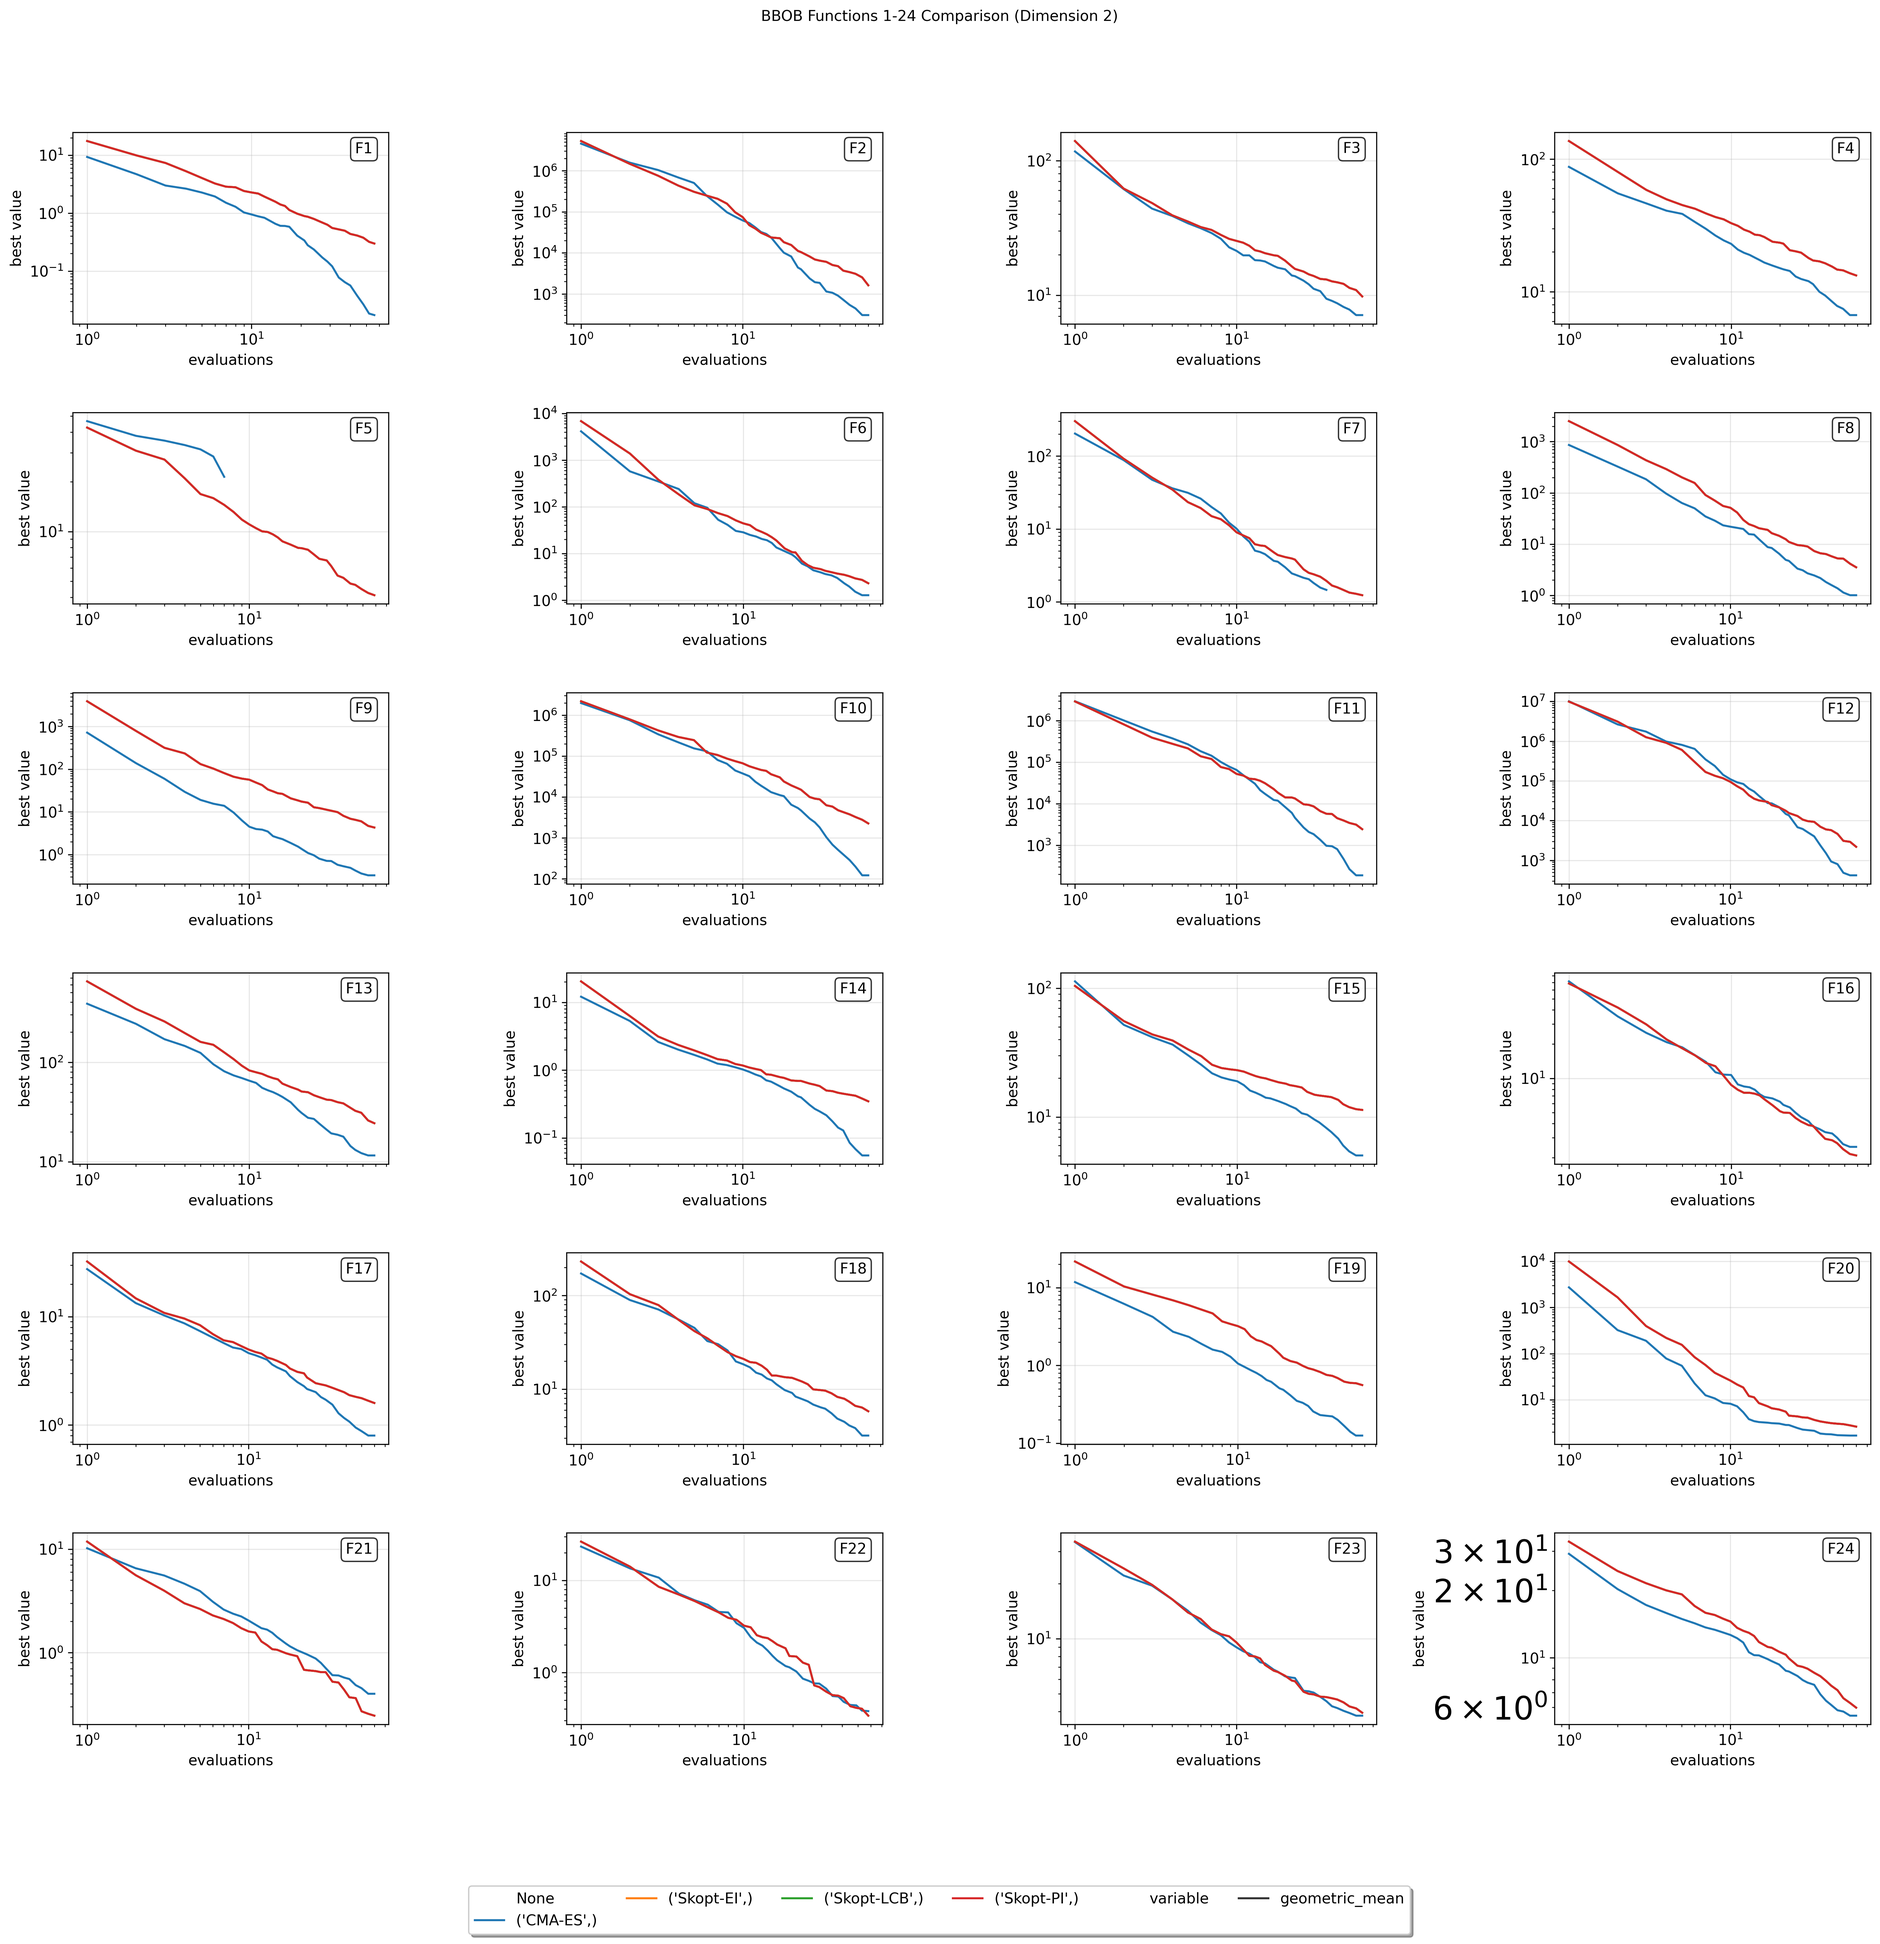
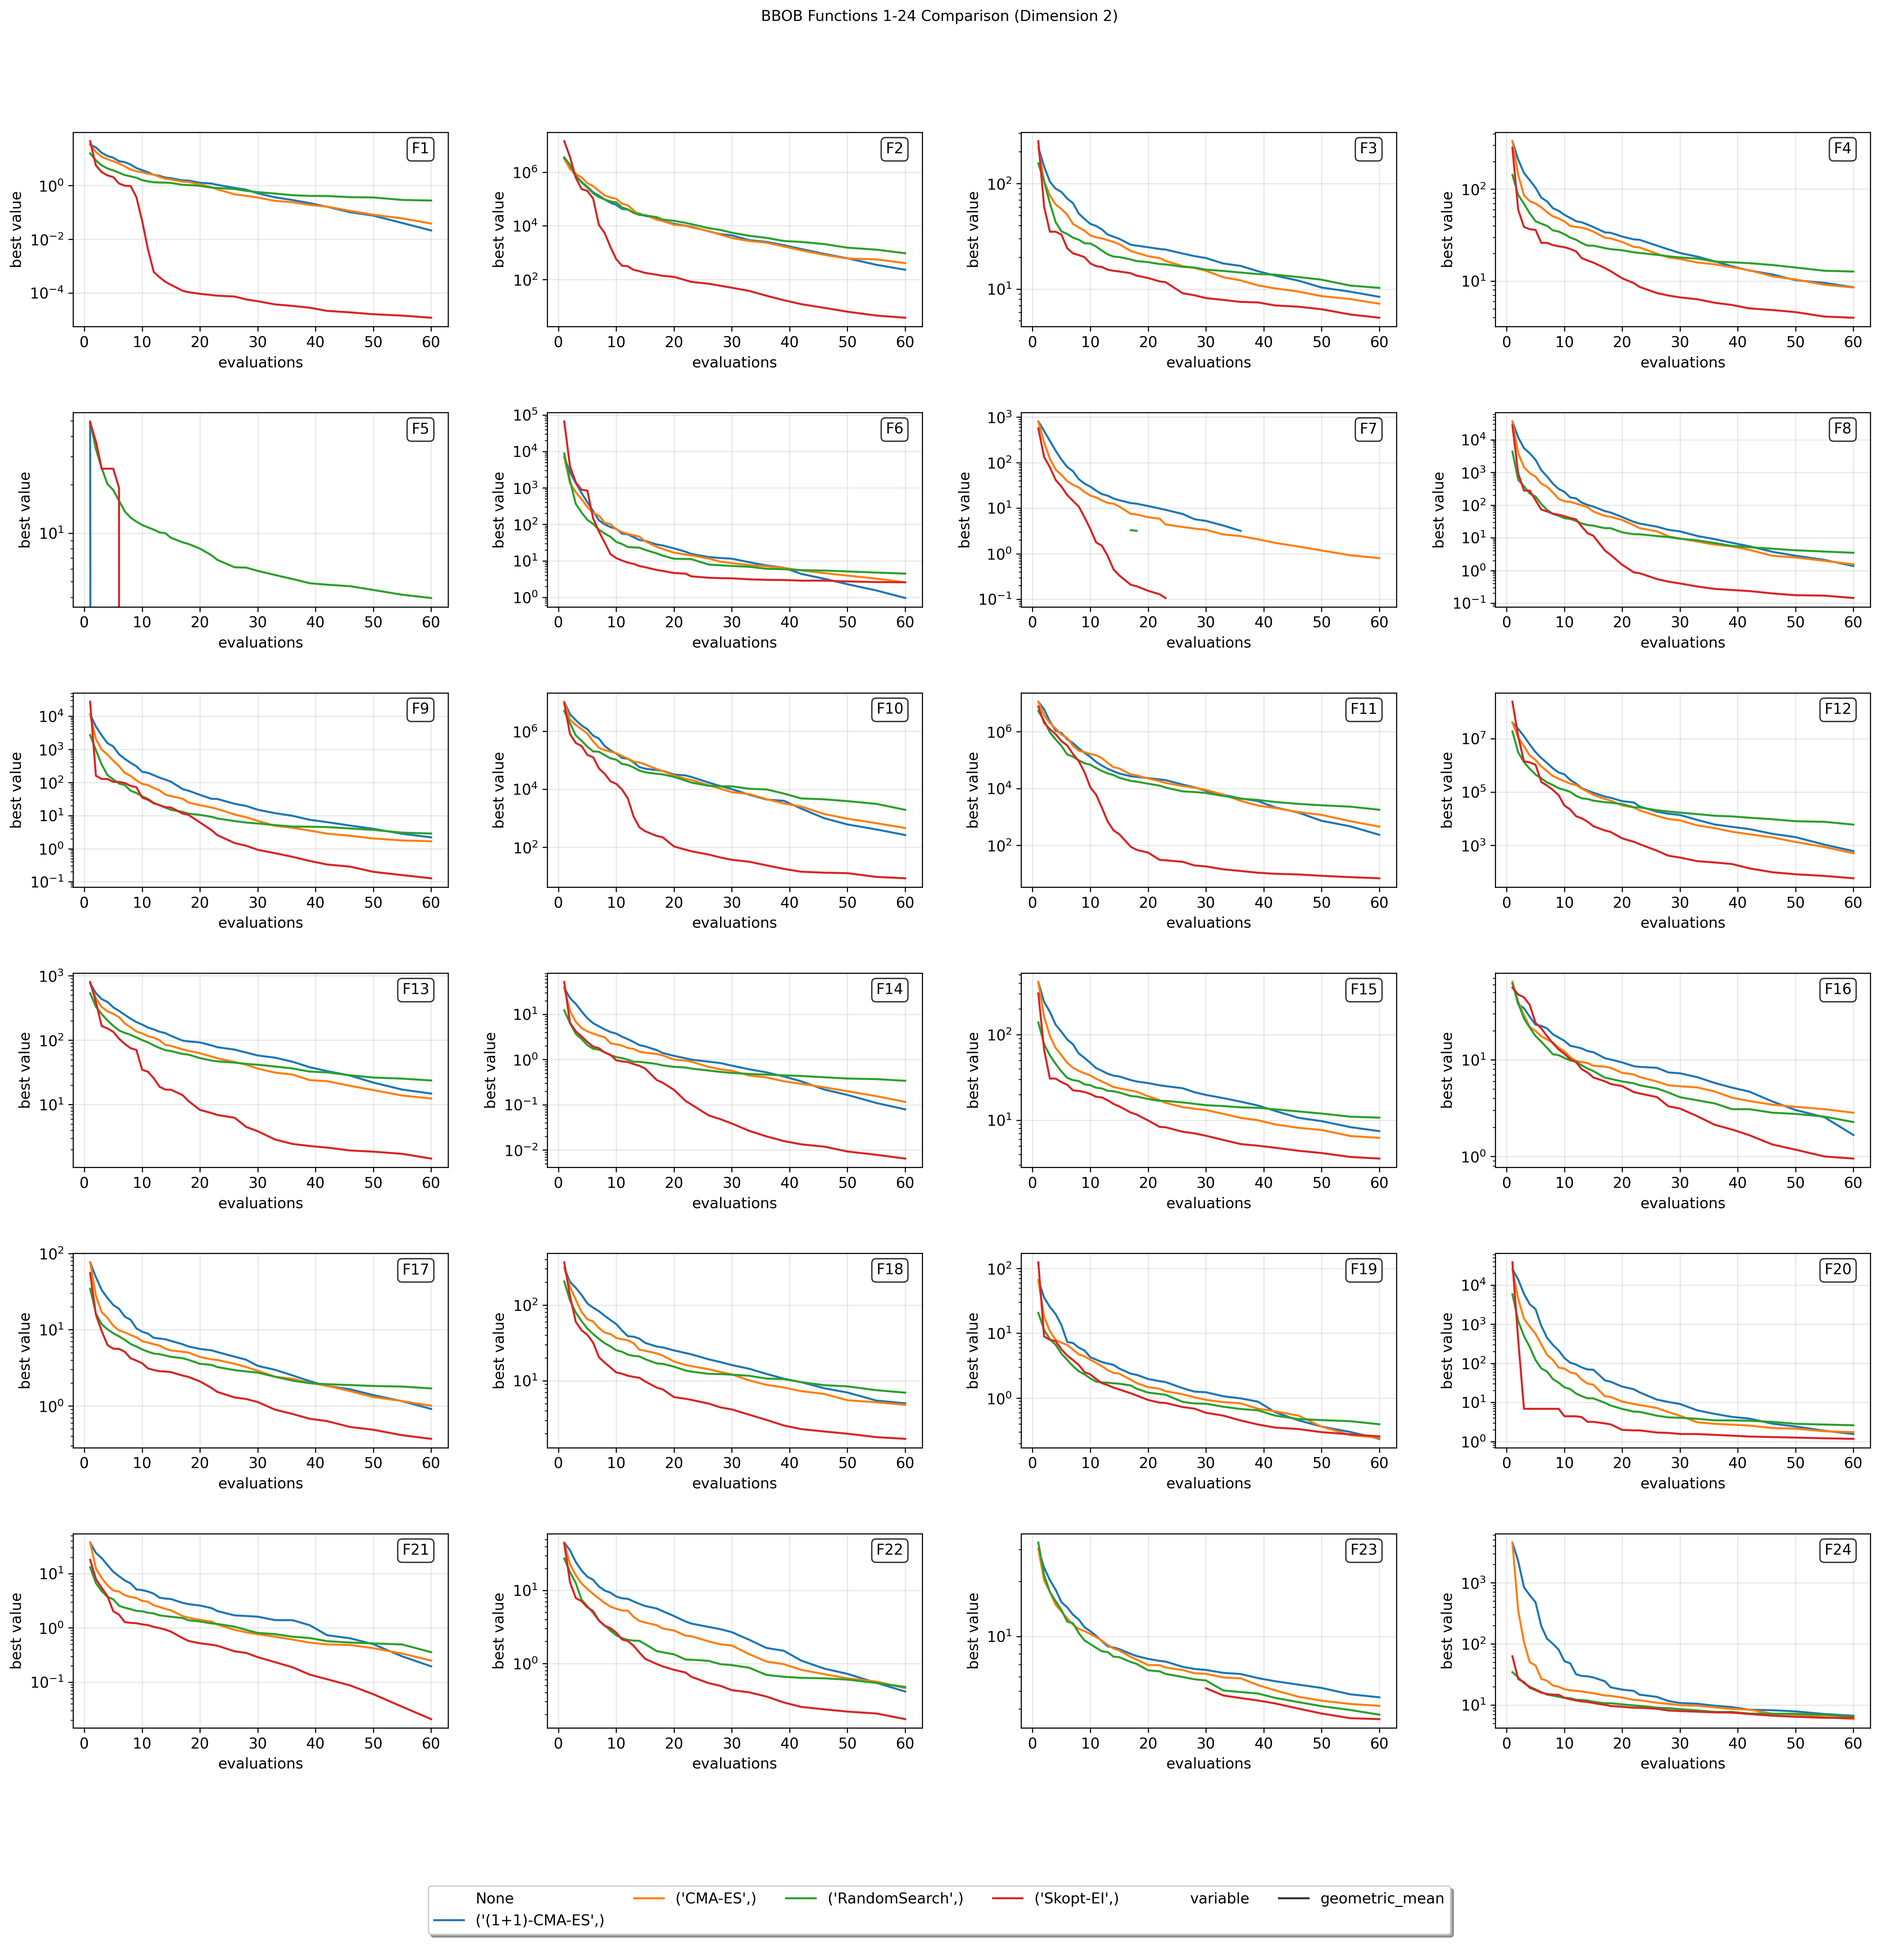
running BO

diff --git a/optimizers/ax_opt.py b/optimizers/ax_opt.py
@@ -1,70 +1,71 @@
-"""
-Meta's Ax optimizer implementation.
-"""
-
 import numpy as np
 import ioh
+from ax.service.ax_client import AxClient, ObjectiveProperties
+from ax.modelbridge.generation_strategy import GenerationStrategy
+from ax.modelbridge.generation_node import GenerationNode
+from ax.modelbridge.registry import Models
+from ax.modelbridge.generation_node import GenerationStep  # older Ax versions use GenerationStep
+
+
 from .base_optimizer import BaseOptimizer
 
 
-from ax.service.ax_client import AxClient, ObjectiveProperties
+class AxBoTorchOptimizer(BaseOptimizer):
+    """Ax optimizer using BoTorch-based Bayesian Optimization."""
 
-
-class AxOptimizer(BaseOptimizer):
-    """Meta's Ax (Adaptive Experimentation) optimizer."""
-
-    def __init__(self, strategy="default"):
+    def __init__(self, strategy="sobol+botorch", n_init=16):
         super().__init__(f"Ax-{strategy}")
         self.strategy = strategy
+        self.n_init = n_init
+
+    def _make_generation_strategy(self, budget: int) -> GenerationStrategy:
+        # NOTE: API differs slightly across Ax versions.
+        # This pattern is the most common: Sobol -> BoTorch.
+        return GenerationStrategy(
+            steps=[
+                GenerationStep(
+                    model=Models.SOBOL,
+                    num_trials=min(self.n_init, budget),
+                    min_trials_observed=min(self.n_init, budget),
+                    max_parallelism=1,  # set >1 if you can evaluate in parallel
+                    model_kwargs={"seed": None},  # AxClient already seeded
+                ),
+                GenerationStep(
+                    model=Models.BOTORCH_MODULAR,  # BoTorch-powered Bayesian optimization
+                    num_trials=max(0, budget - self.n_init),
+                    max_parallelism=1,
+                ),
+            ]
+        )
 
     def optimize(self, problem: ioh.ProblemType, budget: int, seed: int) -> None:
-        """
-        Ax optimization.
+        gs = self._make_generation_strategy(budget)
 
-        Args:
-            problem: IOH problem instance
-            budget: Maximum number of function evaluations
-        """
-        # Create Ax client
-        ax_client = AxClient(random_seed=seed)
+        ax_client = AxClient(random_seed=seed, generation_strategy=gs)
 
-        # Create experiment
         parameters = []
         for i in range(problem.meta_data.n_variables):
             parameters.append(
                 {
                     "name": f"x{i}",
                     "type": "range",
-                    "bounds": [
-                        float(problem.bounds.lb[i]),
-                        float(problem.bounds.ub[i]),
-                    ],
+                    "bounds": [float(problem.bounds.lb[i]), float(problem.bounds.ub[i])],
+                    "value_type": "float",
                 }
             )
 
-        # NEW API: objectives dict instead of objective_name/minimize
         ax_client.create_experiment(
             name="bbob_experiment",
             parameters=parameters,
             objectives={"objective": ObjectiveProperties(minimize=True)},
-            
         )
 
-        # Run optimization loop
         for _ in range(budget):
-            # Get next trial
-            parameters, trial_index = ax_client.get_next_trial()
+            params, trial_index = ax_client.get_next_trial()
+            x = np.array([params[f"x{i}"] for i in range(problem.meta_data.n_variables)], dtype=float)
+            y = float(problem(x))
 
-            # Convert to numpy array
-            x = np.array(
-                [parameters[f"x{i}"] for i in range(problem.meta_data.n_variables)]
-            )
-
-            # Evaluate
-            y = problem(x)
-
-            # Complete trial
             ax_client.complete_trial(
-                trial_index=trial_index, raw_data={"objective": y}
+                trial_index=trial_index,
+                raw_data={"objective": y},
             )
-            

diff --git a/analysis/performance_over_time.py b/analysis/performance_over_time.py
@@ -138,7 +138,7 @@ class ResultAnalyzer:
 
             if df is not None and len(df) > 0:
                 try:
-                    iohinspector.plot.single_function_fixedbudget(df, ax=ax)
+                    iohinspector.plot.single_function_fixedbudget(df, ax=ax, scale_xlog=False)
                     ax.grid(True, alpha=0.3)
 
                     # Add function ID in upper right corner
